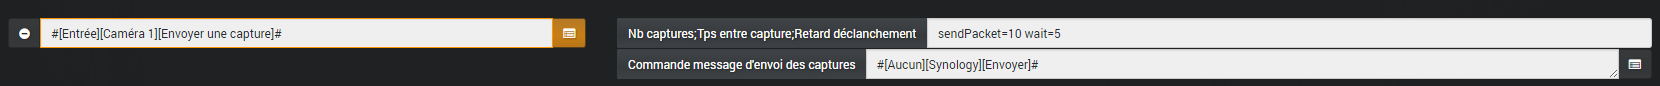
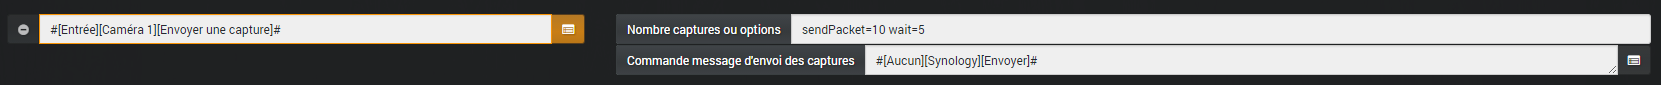
Typo

diff --git a/core/class/camera.class.php b/core/class/camera.class.php
@@ -174,7 +174,7 @@ class camera extends eqLogic {
 		$recordCmd->setEqLogic_id($this->getId());
 		$recordCmd->setSubType('slider');
 		$recordCmd->setOrder(999);
-		$recordCmd->setDisplay('slider_placeholder', __('Nb captures;Tps entre capture;Retard déclanchement', __FILE__));
+		$recordCmd->setDisplay('slider_placeholder', __('Nombre captures ou options', __FILE__));
 		$recordCmd->setDisplay('generic_type', 'CAMERA_RECORD');
 		$recordCmd->setDisplay('icon', '<i class="fa fa-circle"></i>');
 		$recordCmd->save();
@@ -220,7 +220,7 @@ class camera extends eqLogic {
 		$sendSnapshot->setEqLogic_id($this->getId());
 		$sendSnapshot->setSubType('message');
 		$sendSnapshot->setIsVisible(0);
-		$sendSnapshot->setDisplay('title_placeholder', __('Nb captures;Tps entre capture;Retard déclanchement', __FILE__));
+		$sendSnapshot->setDisplay('title_placeholder', __('Nombre captures ou options', __FILE__));
 		$sendSnapshot->setDisplay('message_placeholder', __('Commande message d\'envoi des captures', __FILE__));
 		$sendSnapshot->setDisplay('message_cmd_type', 'action');
 		$sendSnapshot->setDisplay('message_cmd_subtype', 'message');
